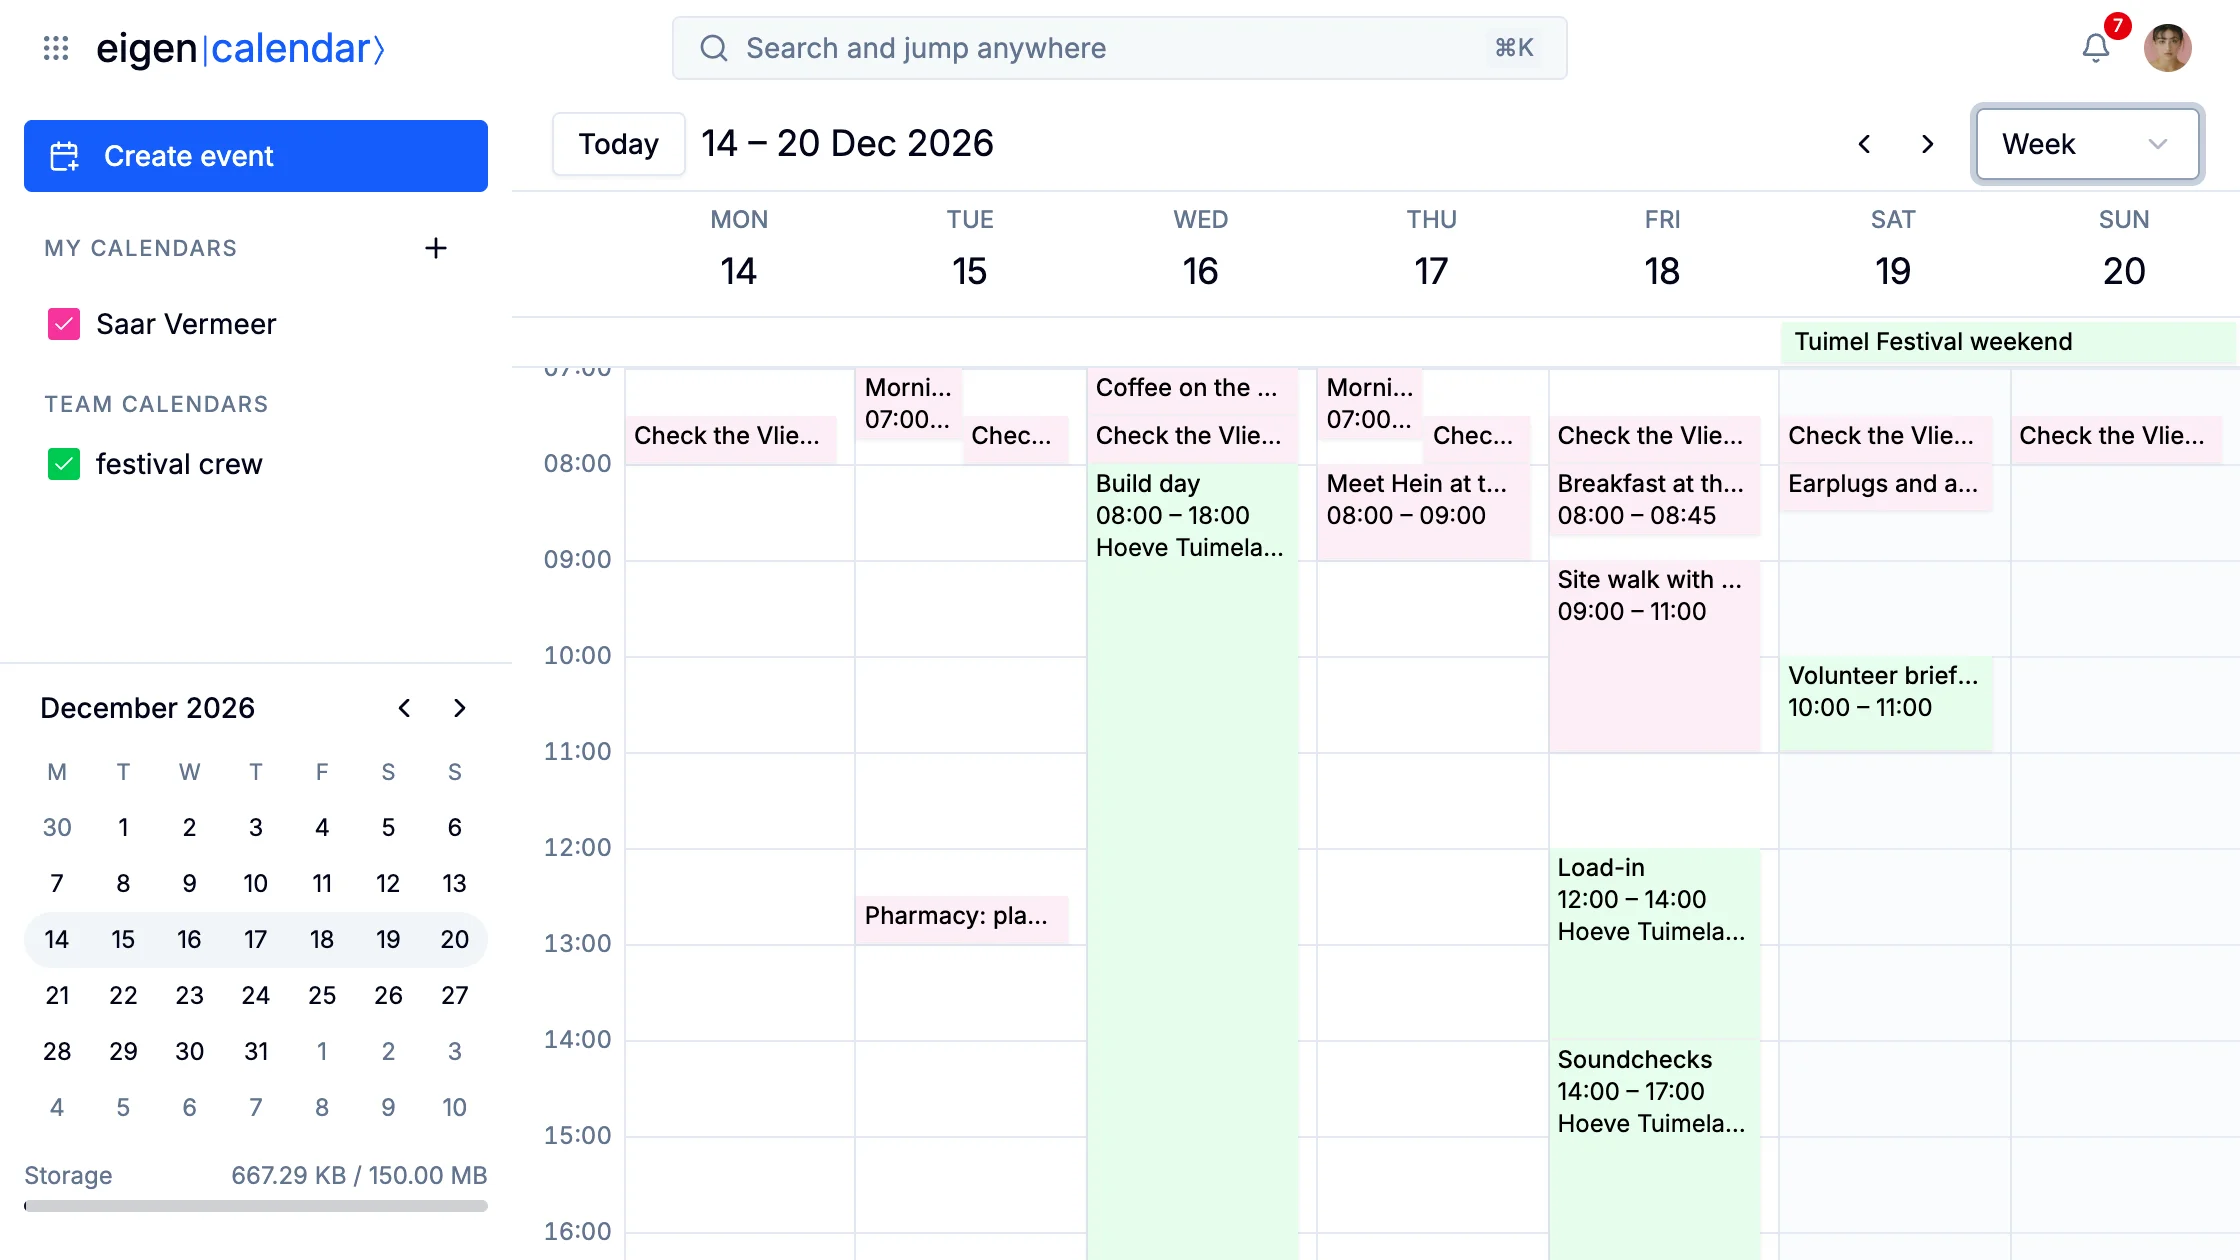
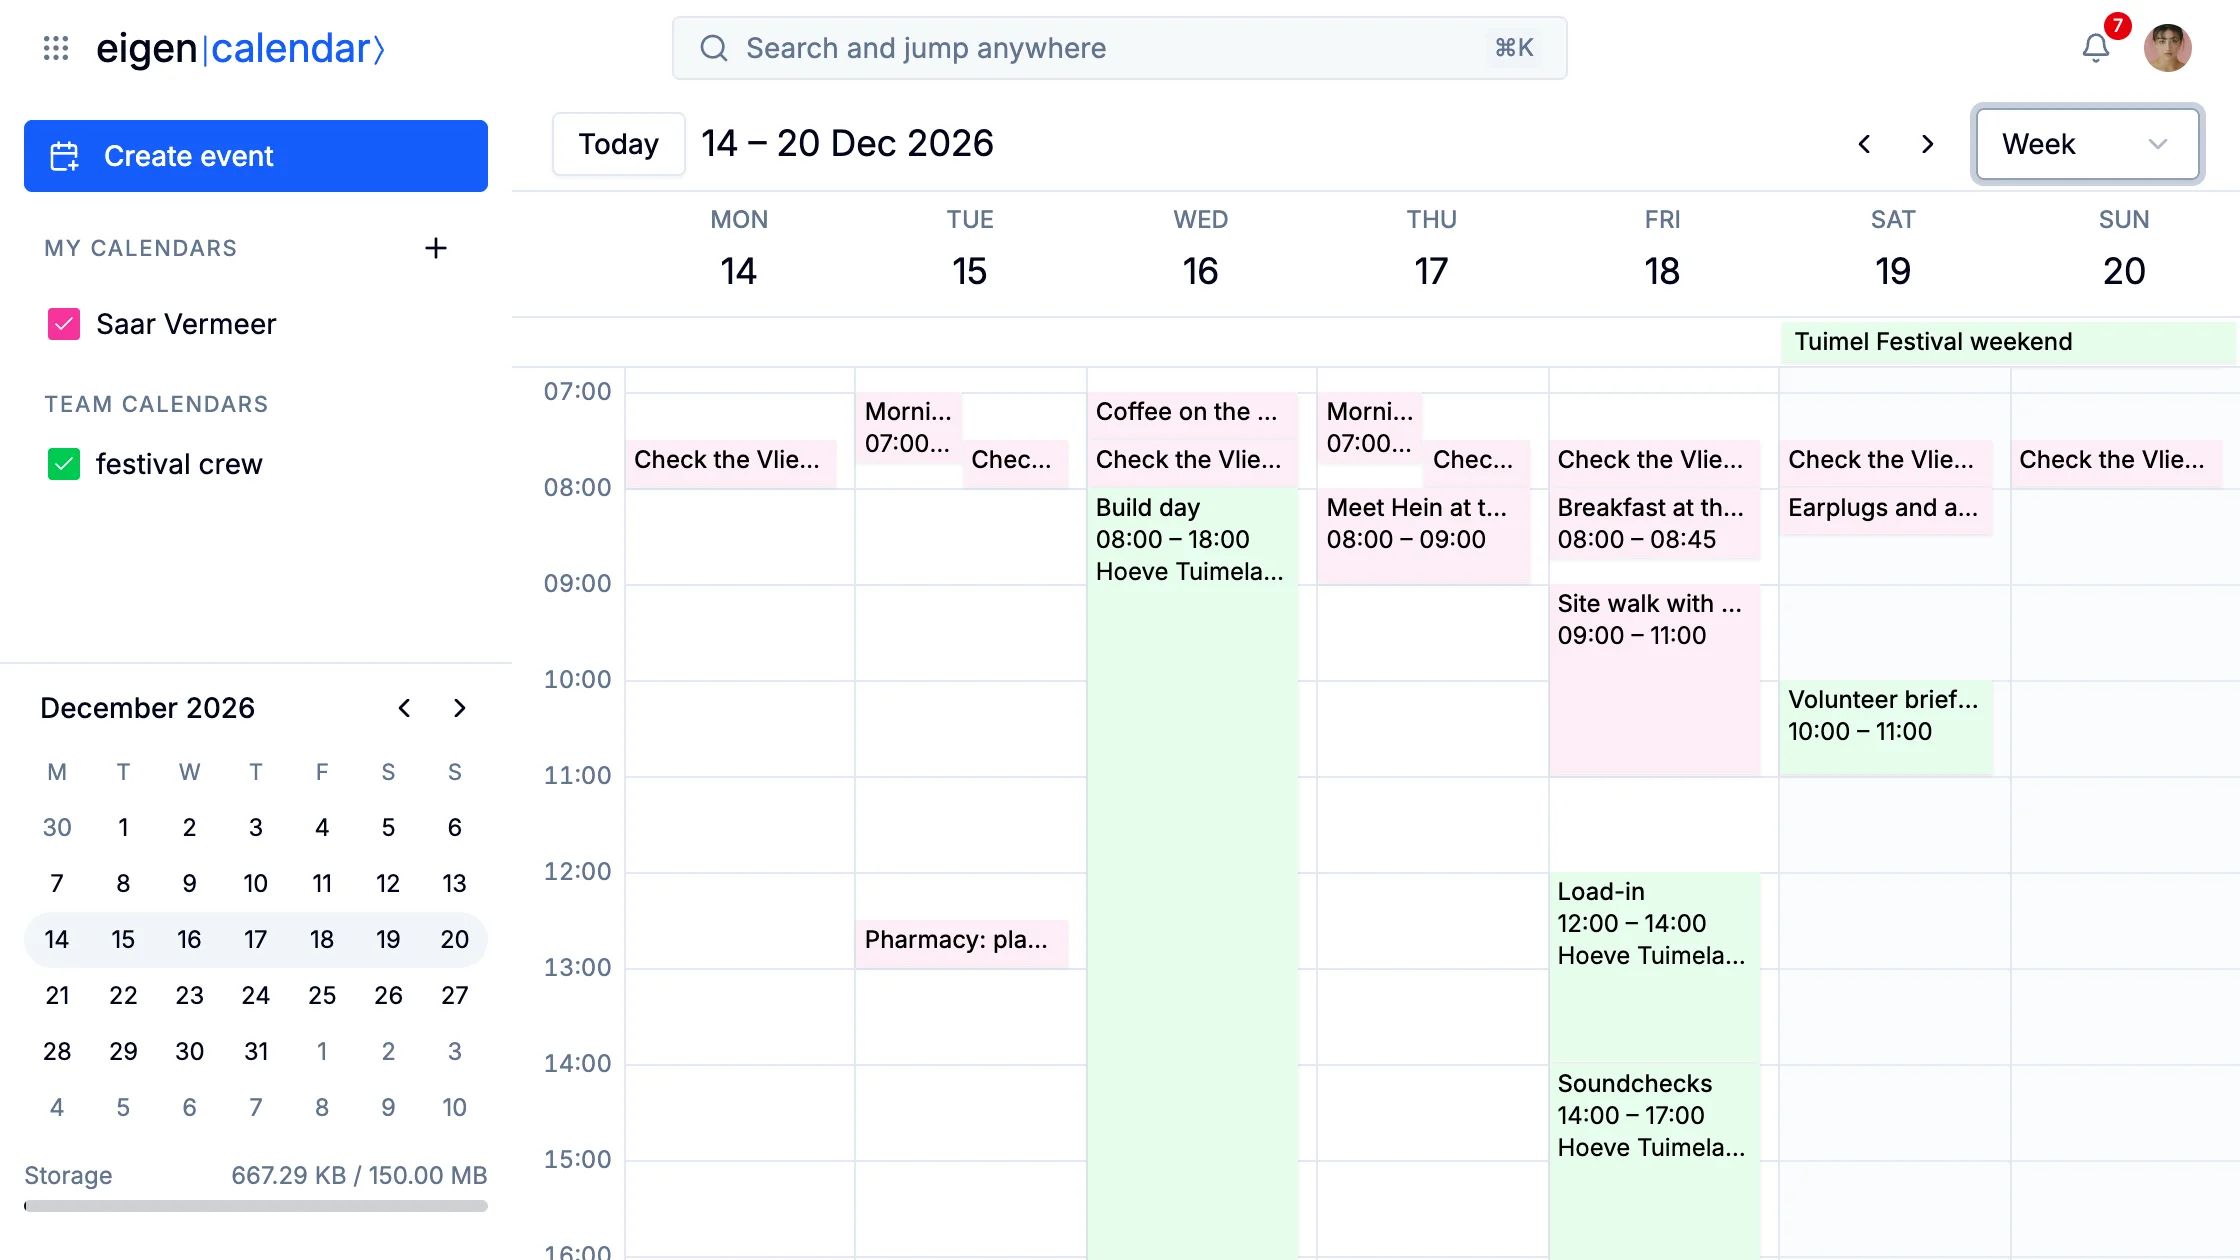
docs(calendar): retake the two week stills
The week view now opens with its first hour label whole, so the festival week still no longer shows a cut 07:00. This week's still opens at a quarter past eight, so its first blocks show whole.

diff --git a/apps/index/capture/scenes/calendar-stills.ts b/apps/index/capture/scenes/calendar-stills.ts
@@ -22,11 +22,11 @@ export const calendarStillToday = {
     run: async ({ pages: [page], stack }) => {
         await openView(page, stack, 'Week');
         await page.getByText('Weekly production meeting').first().waitFor();
-        // The week opens an hour before the current time, so an evening take would show the night. From half past eight
-        // the window holds the morning's dentist and the crew's production meeting at 17:00, and no hour label is cut.
+        // The week opens an hour before the current time, so an evening take would show the night. From a quarter past
+        // eight the window holds the morning's first blocks whole and the crew's production meeting at 17:00.
         await page.getByText('08:00', { exact: true }).evaluate((label) => {
             const scroller = label.closest('.overflow-y-auto');
-            if (scroller && label instanceof HTMLElement) scroller.scrollTop = label.offsetTop + 24;
+            if (scroller && label instanceof HTMLElement) scroller.scrollTop = label.offsetTop + 12;
         });
         await Bun.sleep(1500);
     },
